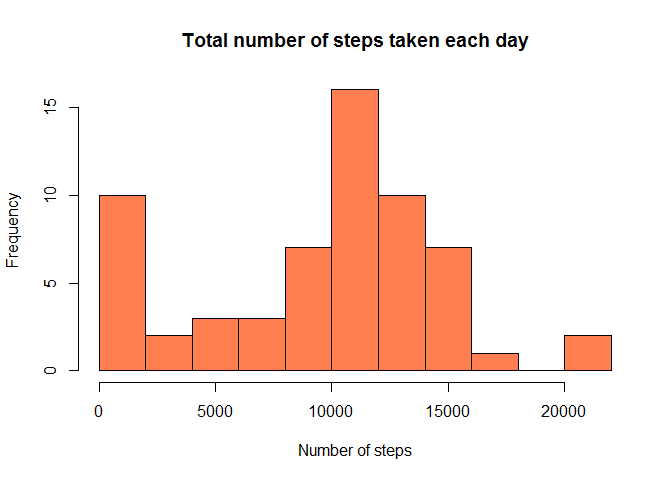
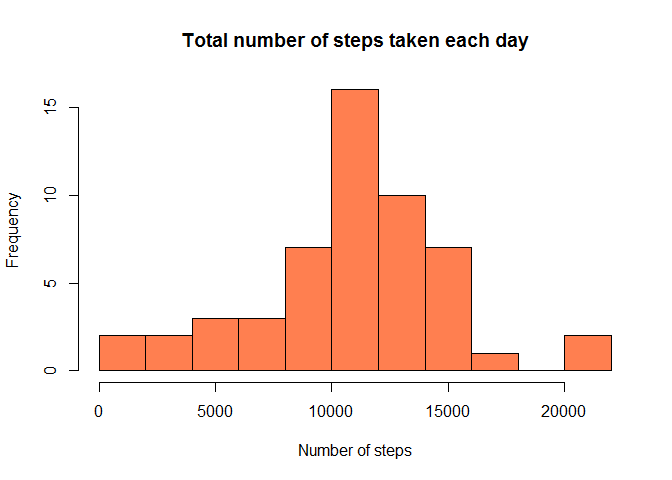
Minor fixes to mean and median

Changed region(s): [[0.125, 0.4062, 0.2188, 0.7188]]

diff --git a/PA1_template.html b/PA1_template.html
@@ -85,19 +85,18 @@ activity &lt;- read.csv(&quot;activity.csv&quot;)</code></pre>
 ## The following objects are masked from 'package:base':
 ## 
 ##     intersect, setdiff, setequal, union</code></pre>
-<pre class="r"><code>steps_per_day &lt;- summarize(group_by(activity, date), steps = sum(steps,
-                                                                 na.rm = T))</code></pre>
+<pre class="r"><code>steps_per_day &lt;- summarize(group_by(activity, date), steps = sum(steps))</code></pre>
 <p>Here is the histogram of the total number of steps taken each day:</p>
 <pre class="r"><code>hist(steps_per_day$steps, col = &quot;coral&quot;, breaks = 10,
      main = &quot;Total number of steps taken each day&quot;, xlab = &quot;Number of steps&quot;,
      ylab = &quot;Frequency&quot;)</code></pre>
[2 lines of base64/hex data omitted]
 <p>The <strong>mean</strong> of the total number of steps taken each day is</p>
 <pre class="r"><code>mean(steps_per_day$steps, na.rm = T)  ## NAs are simply removed, i.e. ignored</code></pre>
-<pre><code>## [1] 9354.23</code></pre>
+<pre><code>## [1] 10766.19</code></pre>
 <p>and the <strong>median</strong> is</p>
 <pre class="r"><code>median(steps_per_day$steps, na.rm = T)</code></pre>
-<pre><code>## [1] 10395</code></pre>
+<pre><code>## [1] 10765</code></pre>
 </div>
 <div id="what-is-the-average-daily-activity-pattern" class="section level2">
 <h2>What is the average daily activity pattern?</h2>
@@ -122,7 +121,7 @@ activity_pattern$time &lt;- strptime(as.character(activity_pattern$interval), &q
 <pre class="r"><code>plot(activity_pattern$time, activity_pattern$steps, type = &quot;l&quot;,
      main = &quot;Average daily activity pattern&quot;, xlab = &quot;Time&quot;,
      ylab = &quot;Number of steps&quot;)</code></pre>
[2 lines of base64/hex data omitted]
 <p>Find the <strong>interval which contains the maximum number of steps</strong>:</p>
 <pre class="r"><code>max_label &lt;- which(activity_pattern$steps == max(activity_pattern$steps))
 max_interval &lt;- activity_pattern[[1]][max_label]
@@ -163,7 +162,7 @@ for(i in 1:nrow(activity_new)){
 <p>and the <strong>new median</strong> is</p>
 <pre class="r"><code>median(steps_per_day_new$steps)</code></pre>
 <pre><code>## [1] 10766.19</code></pre>
-<p>One can see that the new values of the mean and the median differ from the initial ones. Interestingly, replacing the missing values with the means for the corresponding intervals led to the values of mean and median being closer to each other. In fact, with the given degree of precision they are equal. I believe that the reason is as follows: on the initial histogram we can see that the larger numbers of steps (right-hand side) occur more frequently. Thus, the portion of large interval-averaged values we added is greated than that of the smaller ones.</p>
+<p>One can see that while the mean did not change, the new value of the mean median differs from the initial one slightly. Replacing the missing values with the means for the corresponding intervals led to the values of mean and median being closer to each other. In fact, with the given degree of precision they are equal. I believe that the reason why the median became higher is as follows: on the initial histogram we can see that the larger numbers of steps (right-hand side) occur more frequently. Thus, the portion of large interval-averaged values we added is greated than that of the smaller ones.</p>
 </div>
 <div id="are-there-differences-in-activity-patterns-between-weekdays-and-weekends" class="section level2">
 <h2>Are there differences in activity patterns between weekdays and weekends?</h2>
@@ -190,7 +189,7 @@ plot(activity_pattern_weekend$interval, activity_pattern_weekend$steps,
      type = &quot;l&quot;, main = &quot;Weekend&quot;, xlab = &quot;Time interval&quot;,
      ylab = &quot;Number of steps&quot;)</code></pre>
[1 lines of base64/hex data omitted]
-<p><em>Thank you for attention!</em></p>
+<p><em>Thank you for your time!</em></p>
 </div>
 
 

diff --git a/PA1_template.md b/PA1_template.md
@@ -36,8 +36,7 @@ library(dplyr)
 ```
 
 ```r
-steps_per_day <- summarize(group_by(activity, date), steps = sum(steps,
-                                                                 na.rm = T))
+steps_per_day <- summarize(group_by(activity, date), steps = sum(steps))
 ```
 Here is the histogram of the total number of steps taken each day:
 
@@ -56,7 +55,7 @@ mean(steps_per_day$steps, na.rm = T)  ## NAs are simply removed, i.e. ignored
 ```
 
 ```
-## [1] 9354.23
+## [1] 10766.19
 ```
 and the **median** is
 
@@ -65,7 +64,7 @@ median(steps_per_day$steps, na.rm = T)
 ```
 
 ```
-## [1] 10395
+## [1] 10765
 ```
 
 ## What is the average daily activity pattern?
@@ -187,11 +186,13 @@ median(steps_per_day_new$steps)
 ```
 ## [1] 10766.19
 ```
-One can see that the new values of the mean and the median differ from the
-initial ones. Interestingly, replacing the missing values with the means for the
+One can see that while the mean did not change, the new value of the mean median
+differs from the
+initial one slightly. Replacing the missing values with the means for the
 corresponding intervals led to the values of mean and median being closer to
 each other. In fact, with the given degree of precision they are equal. I believe
-that the reason is as follows: on the initial histogram we can see that the
+that the reason why the median became higher is as follows:
+on the initial histogram we can see that the
 larger numbers of steps (right-hand side) occur more frequently. Thus, the portion
 of large interval-averaged values we added is greated than that of the 
 smaller ones.
@@ -242,4 +243,4 @@ plot(activity_pattern_weekend$interval, activity_pattern_weekend$steps,
 
 ![](PA1_template_files/figure-html/unnamed-chunk-19-1.png) 
   
-  *Thank you for attention!*
+  *Thank you for your time!*
